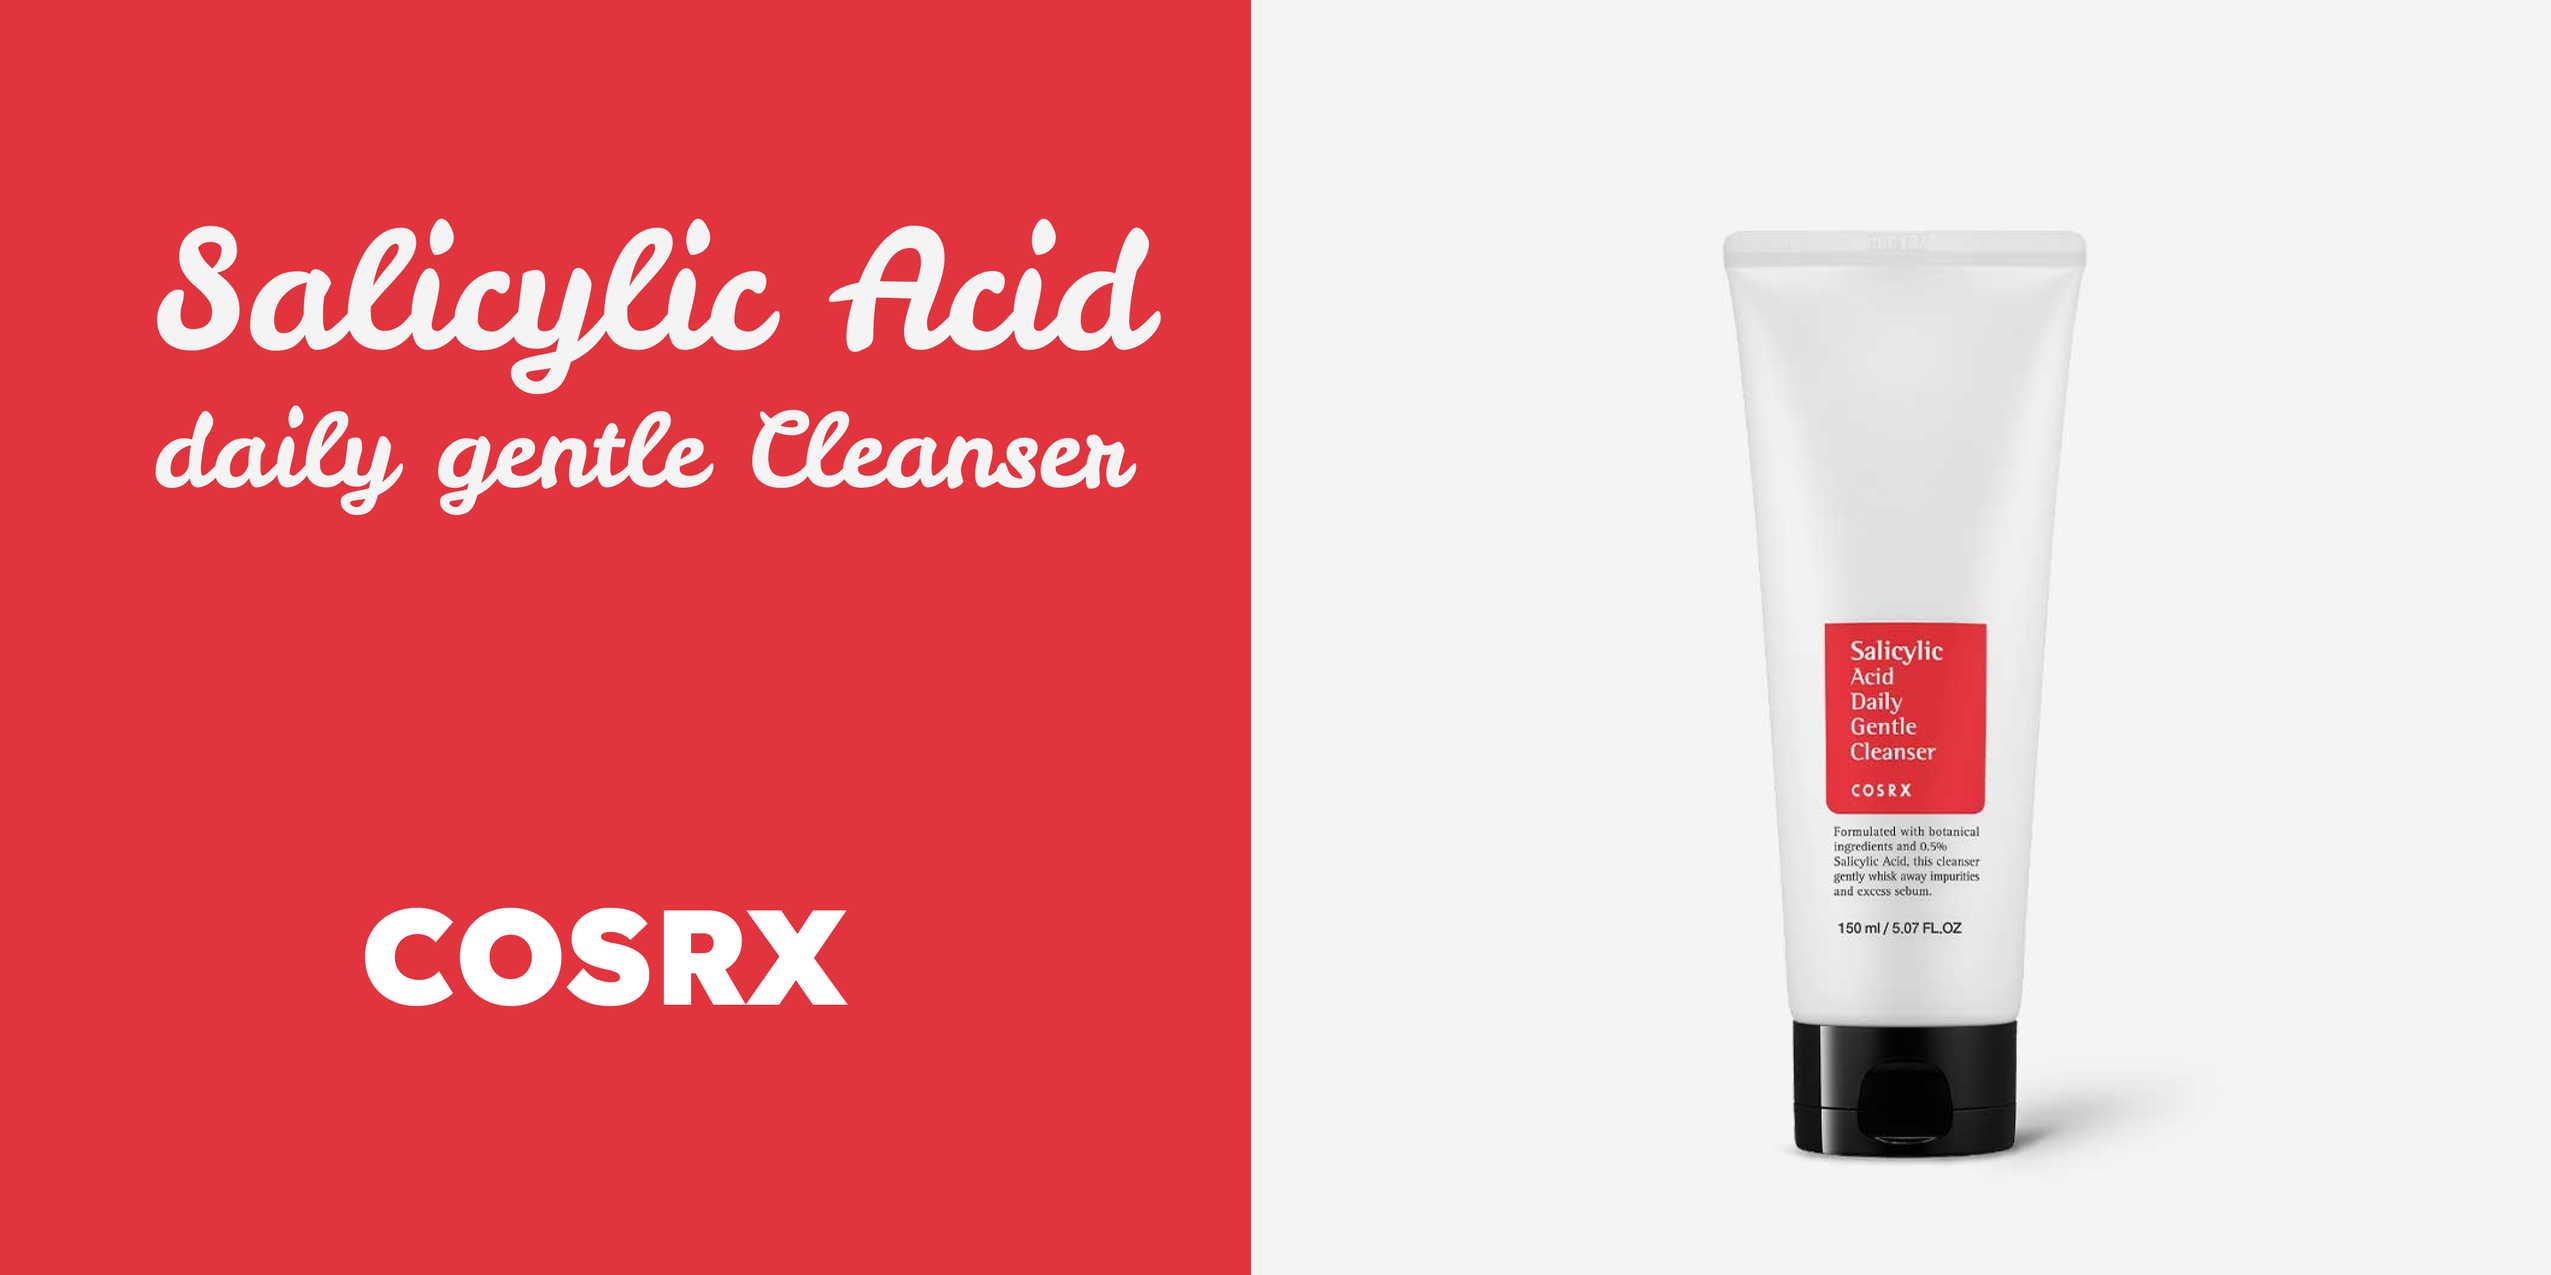
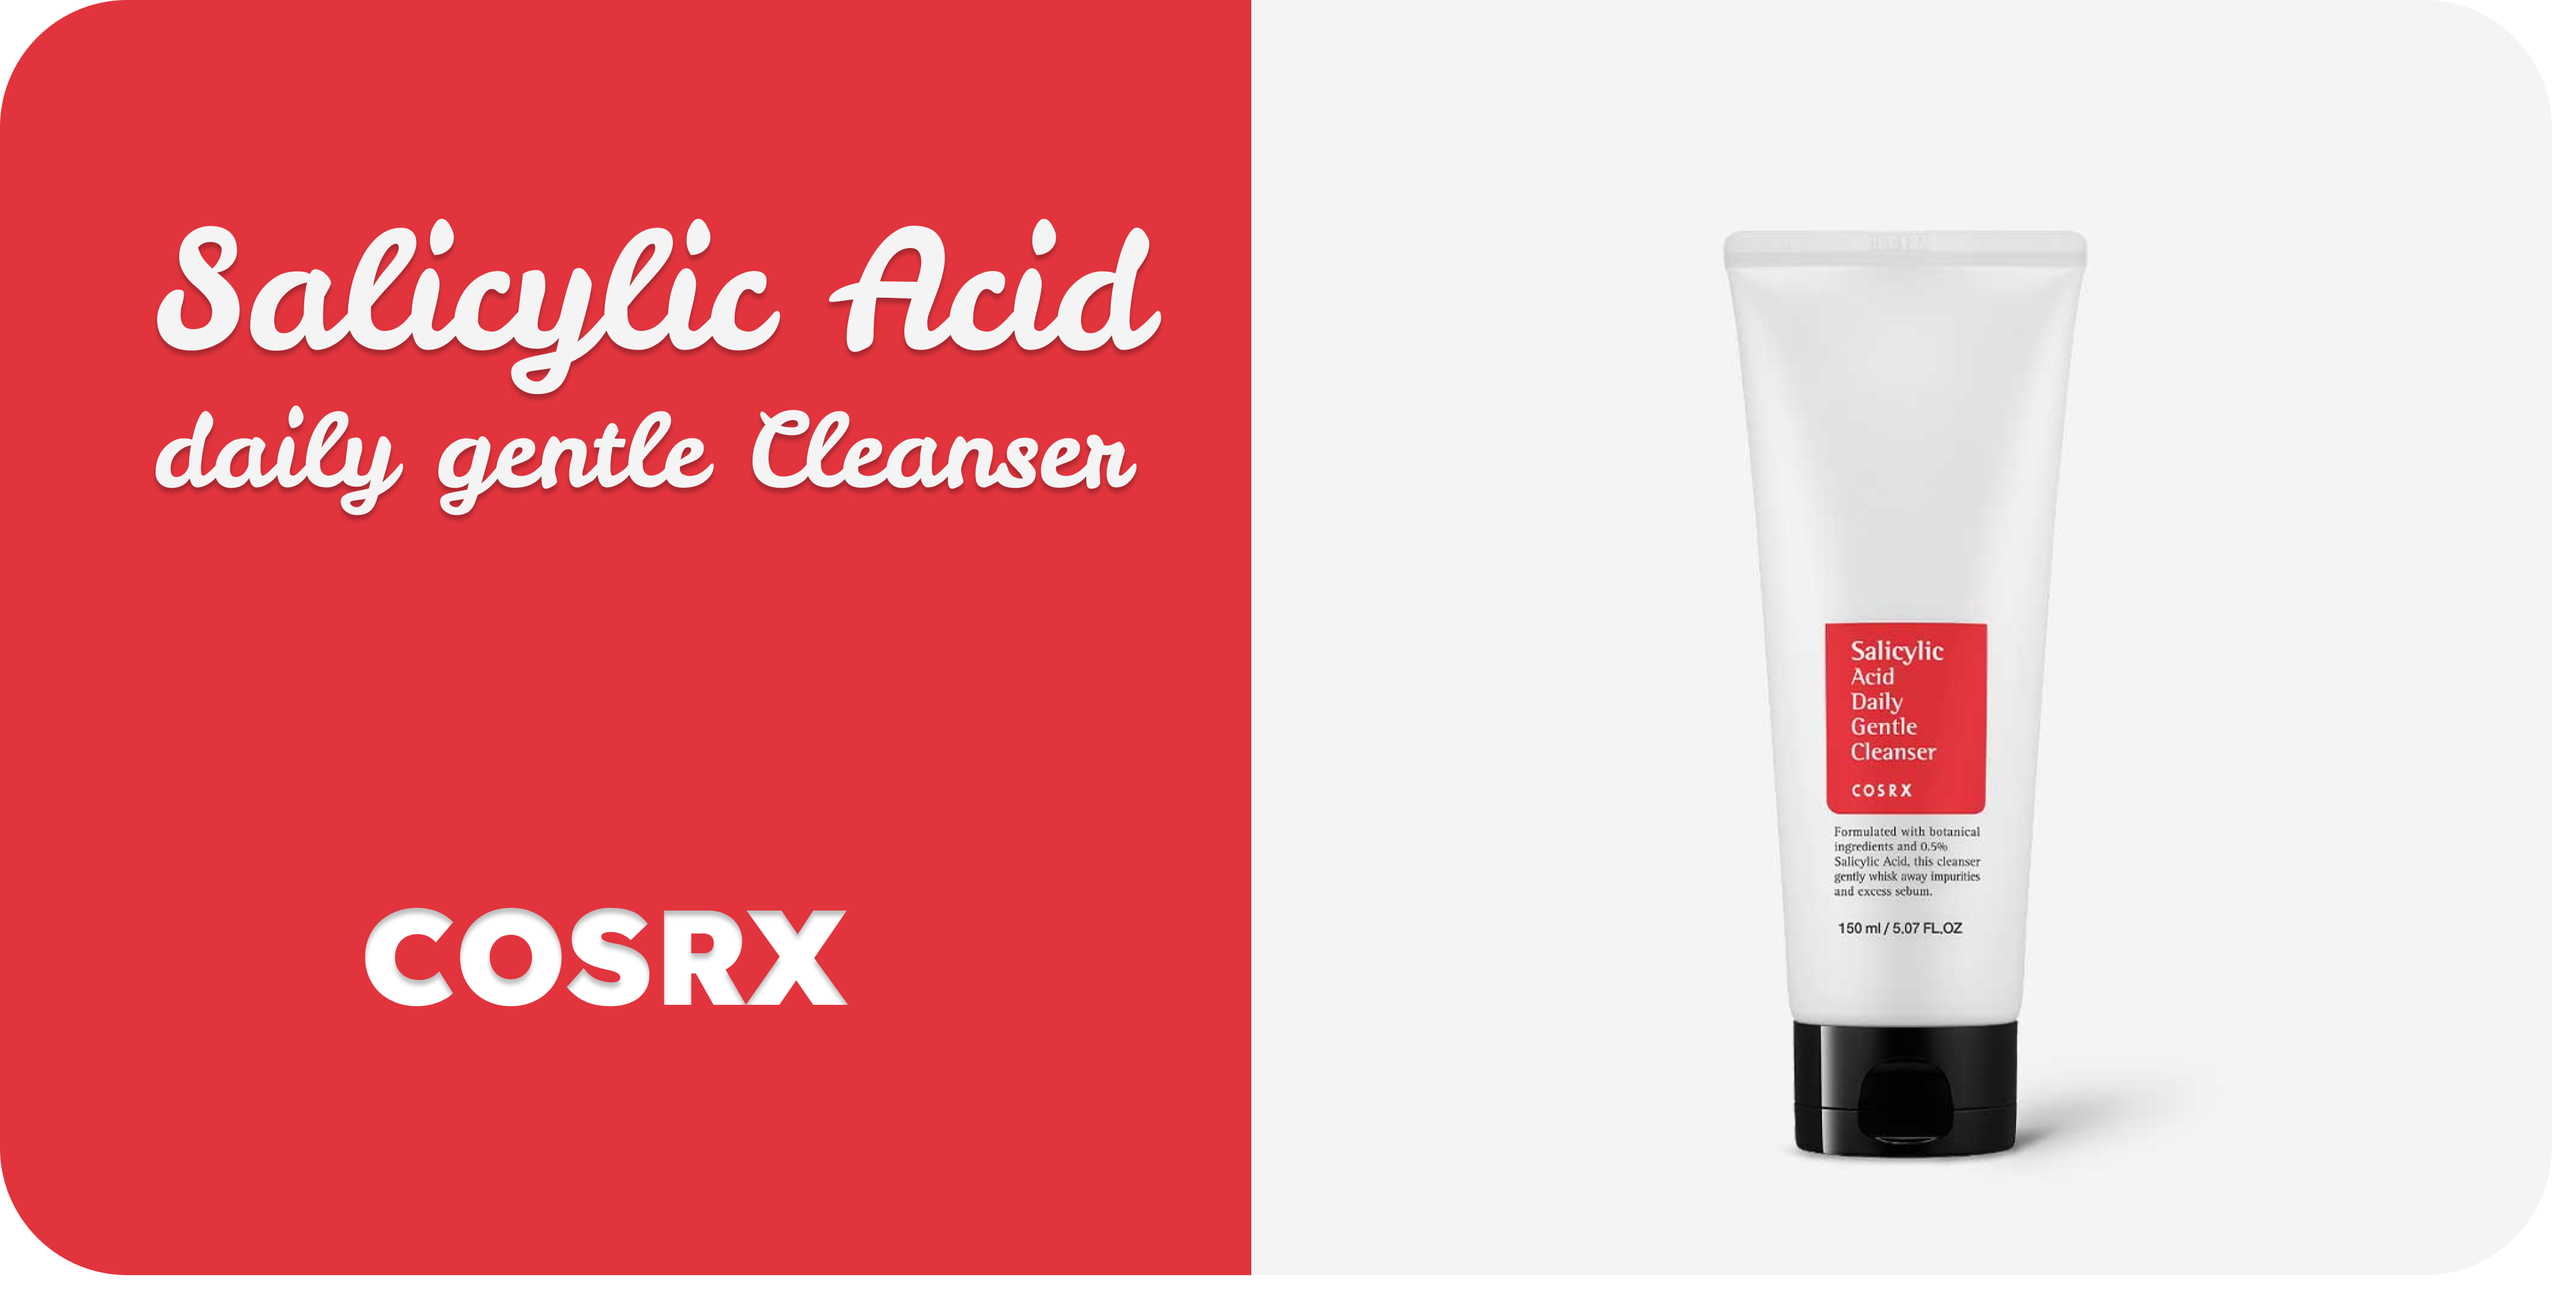
pic changes

diff --git a/index.html b/index.html
@@ -9,10 +9,10 @@
     <style>
         /* Outer wrapper with fixed border radius */
         .carousel-container {
-            border-radius: 15px;
+            border-radius: 0px;
             overflow: hidden;
         }
-
+    
         /* Basic image styling */
         .carousel-item img {
             width: 100%;
@@ -20,23 +20,30 @@
             object-fit: cover;
         }
 
-        /* Fade-in effect */
-        .carousel-item.fade-in img {
-            animation: fadeIn 1.5s ease-in-out;
-        }
 
-        /* Zoom-in effect */
-        .carousel-item.zoom-in img {
-            animation: zoomIn 1.5s ease-in-out;
-        }
-
-        /* Slide-in from right effect */
+    
+        /* Slide-in from right effect with 2s pause */
         .carousel-item.slide-in-right img {
-            animation: slideInRight 2.5s cubic-bezier(0.5, 0, 0.5, 1);
-            
+            animation: slideInPause 4.5s cubic-bezier(0, 0.8, 0, 1) forwards;
         }
-
+    
+        @keyframes slideInPause {
+            0% {
+                transform: translateX(100%); /* Start off-screen */
+                opacity: 1; /* Start invisible */
+            }
+            30% {
+                transform: translateX(0); /* End slide-in smoothly */
+                opacity: 1;
+            }
+            100% {
+                transform: translateX(0); /* Stay still */
+                opacity: 1;
+            }
+        }
     </style>
+    
+    
 </head>
 
 <body>
@@ -46,7 +53,7 @@
             <div id="dynamicSlider" class="carousel slide" data-bs-ride="carousel" data-bs-interval="3000">
                 <div class="carousel-inner">
                     <!-- Slide 1 -->
-                    <div class="carousel-item active fade-in">
+                    <div class="carousel-item active slide-in-right fade-in">
                         <img src="./images/1.jpg"
                             alt="Image 1">
                     </div>
